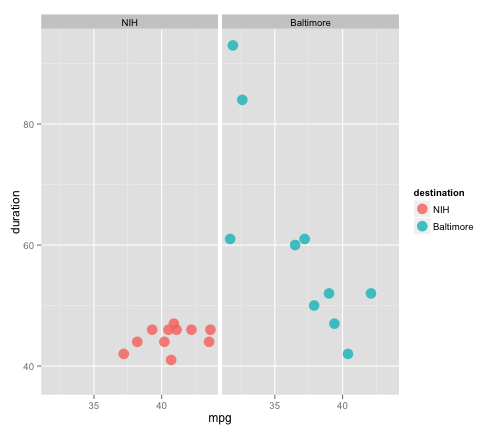
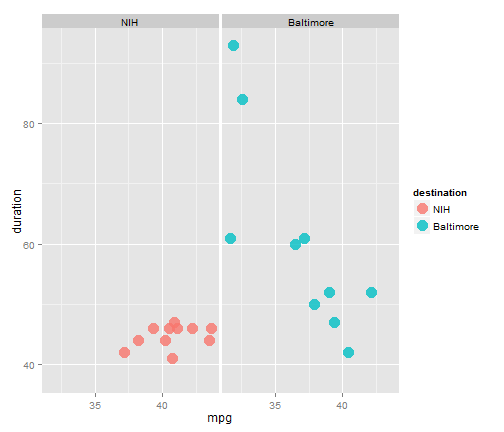
after ssh keygen; after ggplot2 install...

diff --git a/readMe.md b/readMe.md
@@ -3,28 +3,15 @@ Commute:  Live in Baltimore, Work at the NIH
 
 Looks like my commute to the NIH is more consistent than the ride home to Baltimore, and more fuel efficient too.  On the x-axis, 1 is Monday and 5 is Friday.  On the y-axis, duration in minutes.
 
-
-```
-## Error: there is no package called 'ggplot2'
-```
-
-```
-## Error: could not find function "ggplot"
-```
+![plot of chunk unnamed-chunk-1](figure/unnamed-chunk-1.png) 
 
 Another look at fuel efficiency:
 
-
-```
-## Error: could not find function "ggplot"
-```
+![plot of chunk unnamed-chunk-2](figure/unnamed-chunk-2.png) 
 
 Without facetting:
 
-
-```
-## Error: could not find function "ggplot"
-```
+![plot of chunk unnamed-chunk-3](figure/unnamed-chunk-3.png) 
 
 
 
